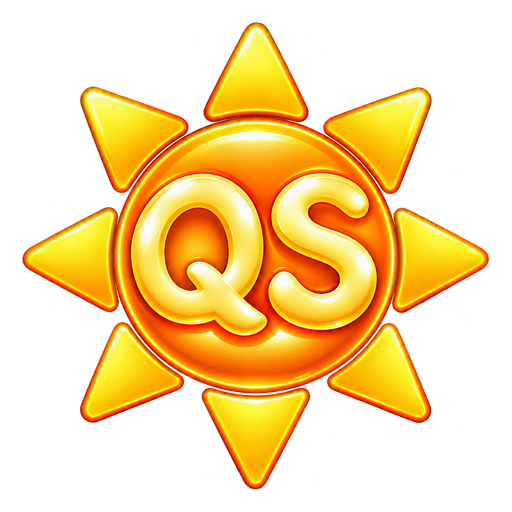
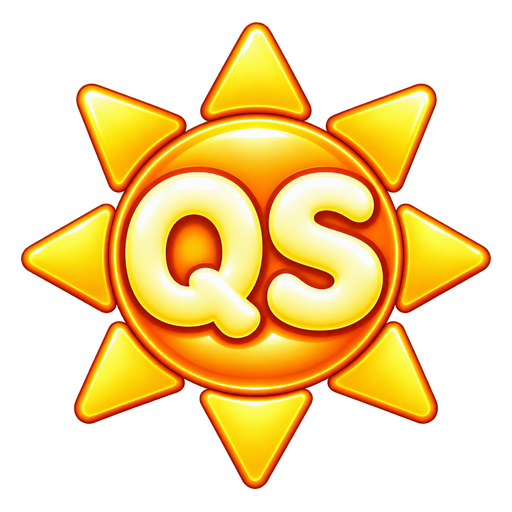
refine(elements): improve distant letter readability

Changed region(s): [[0.0312, 0.0312, 0.9688, 0.9688], [0.5312, 0.875, 0.5625, 0.9062]]

diff --git a/src/routes/(public)/timing-and-direction/_components/TimingDirectionModeCard.svelte b/src/routes/(public)/timing-and-direction/_components/TimingDirectionModeCard.svelte
@@ -12,7 +12,7 @@
   accentColor={element?.accentColor}
 >
   {#if element}
-    <img src={element.iconPath} alt="" width="24" height="24" />
+    <img src={element.iconPath} alt="" width="32" height="32" />
   {/if}
   <span>{article.compactName}</span>
 </PanelButton>
